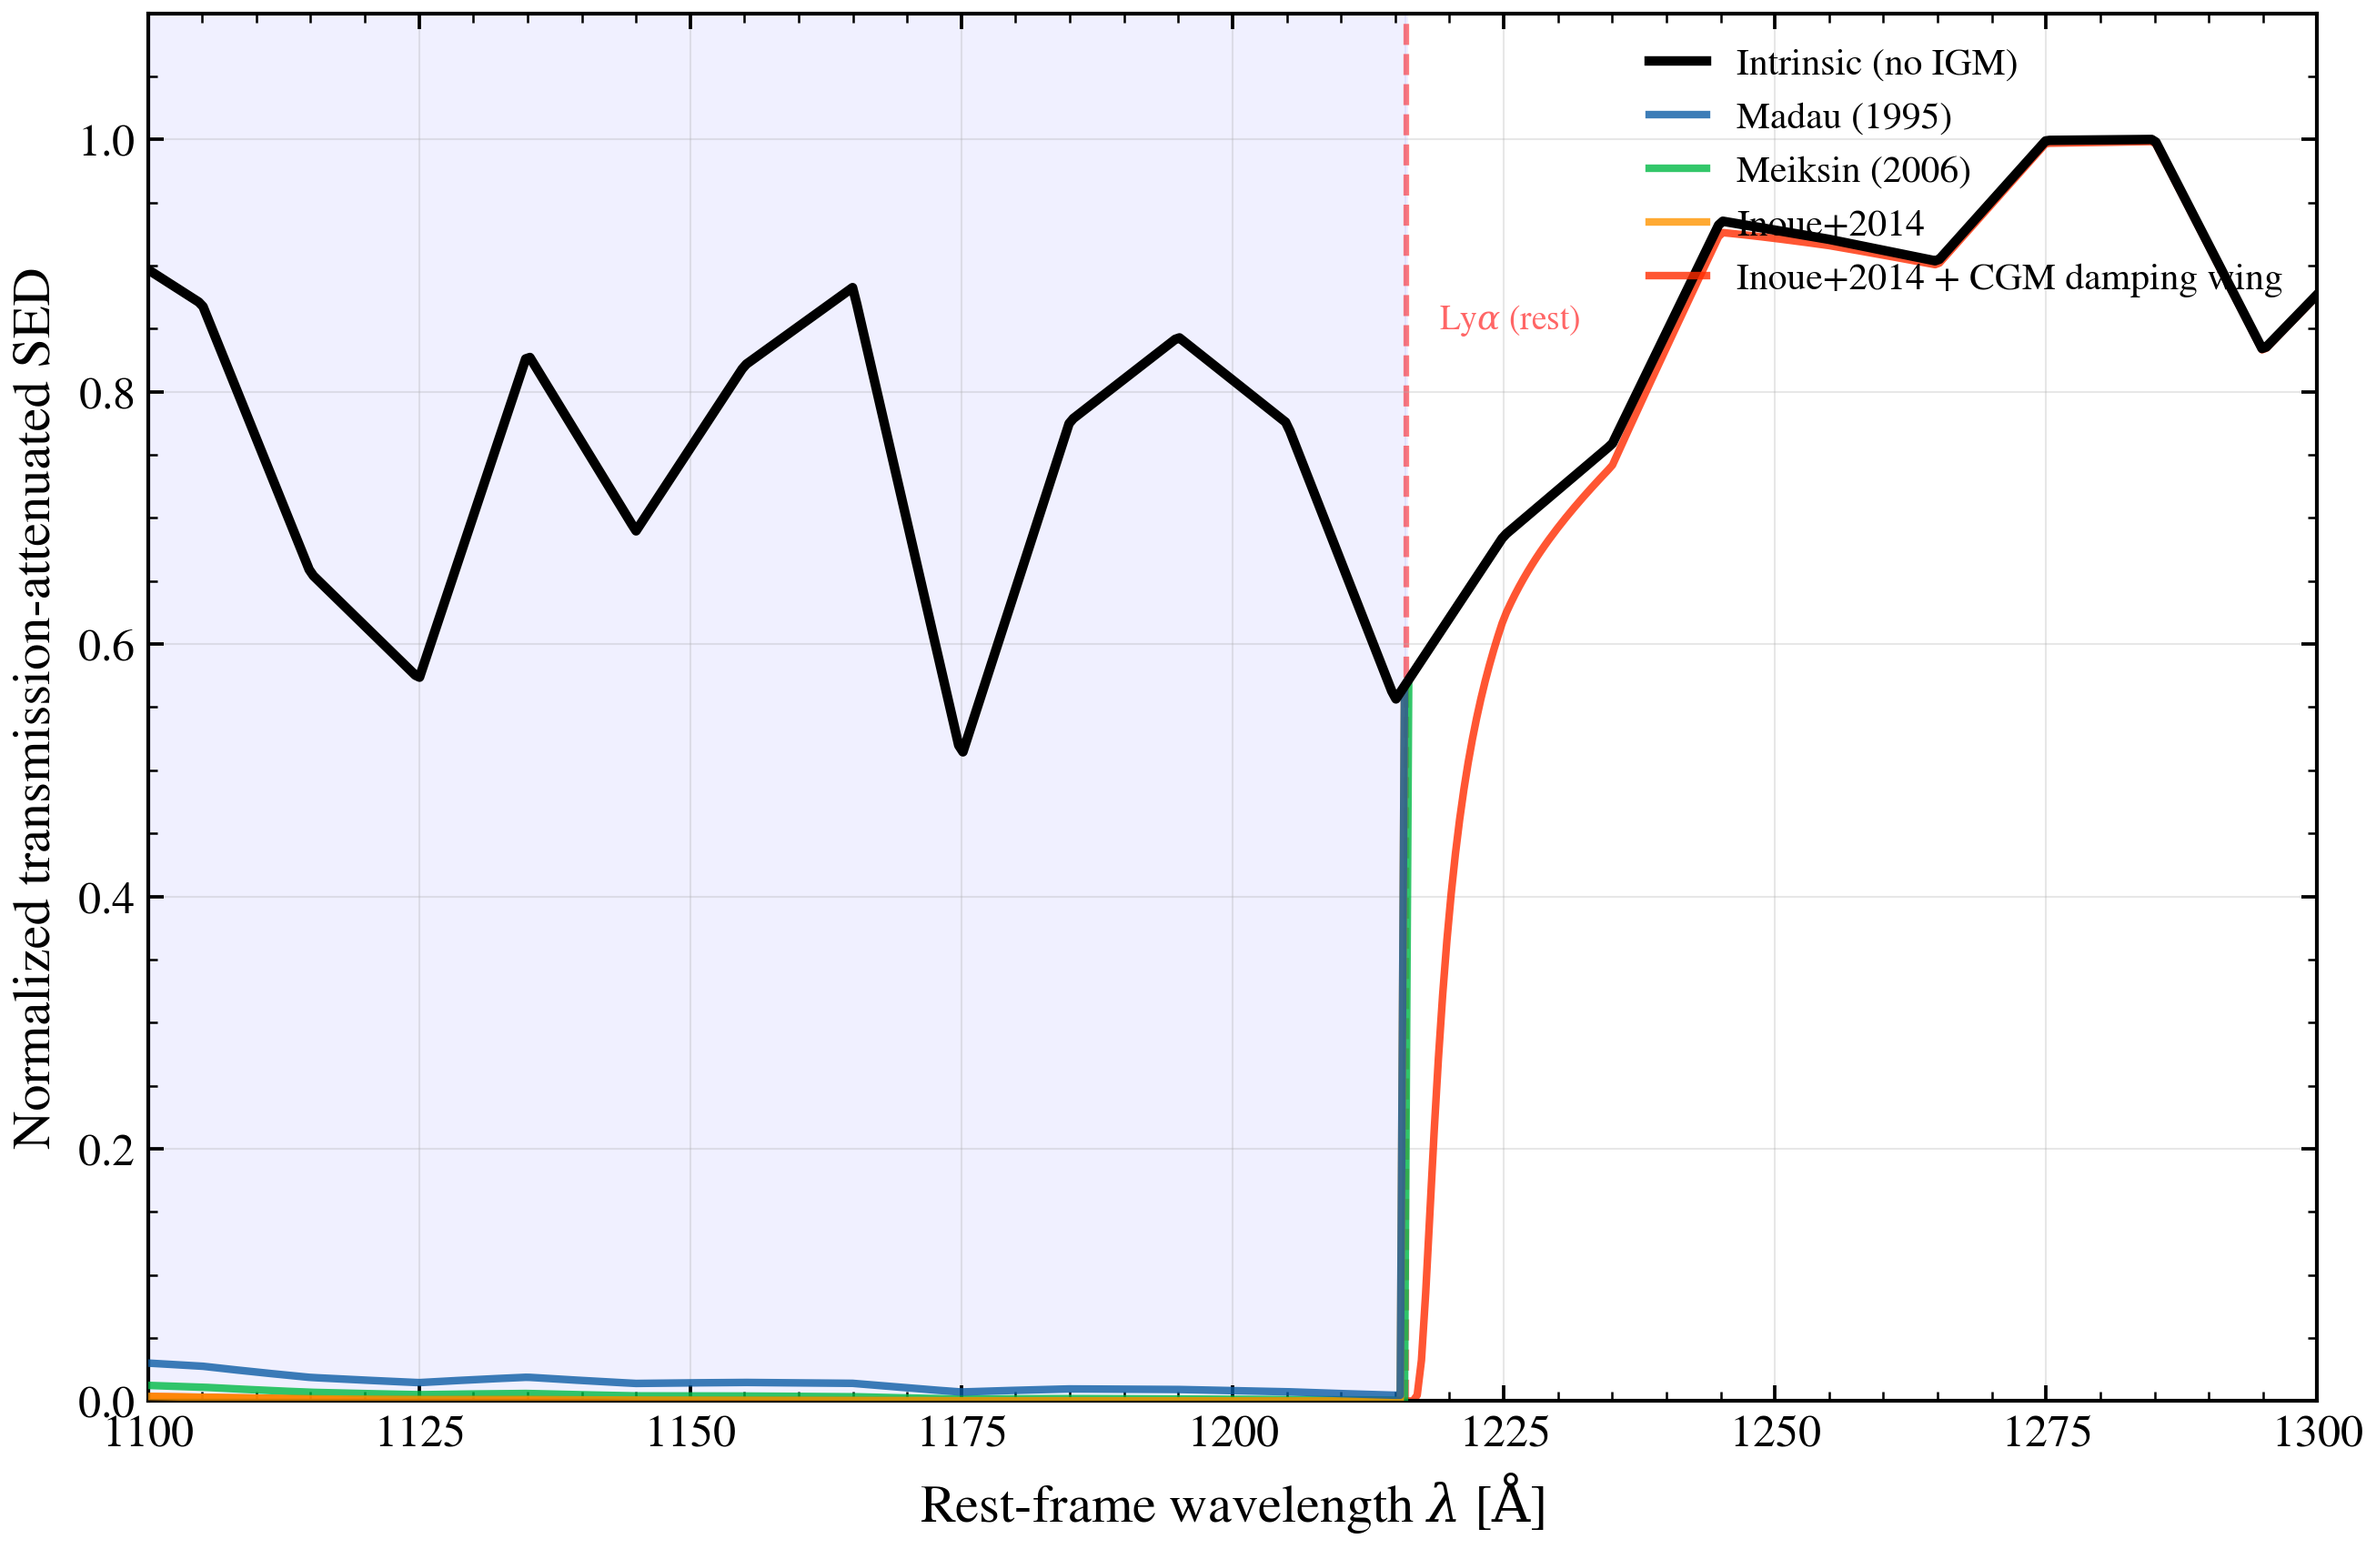
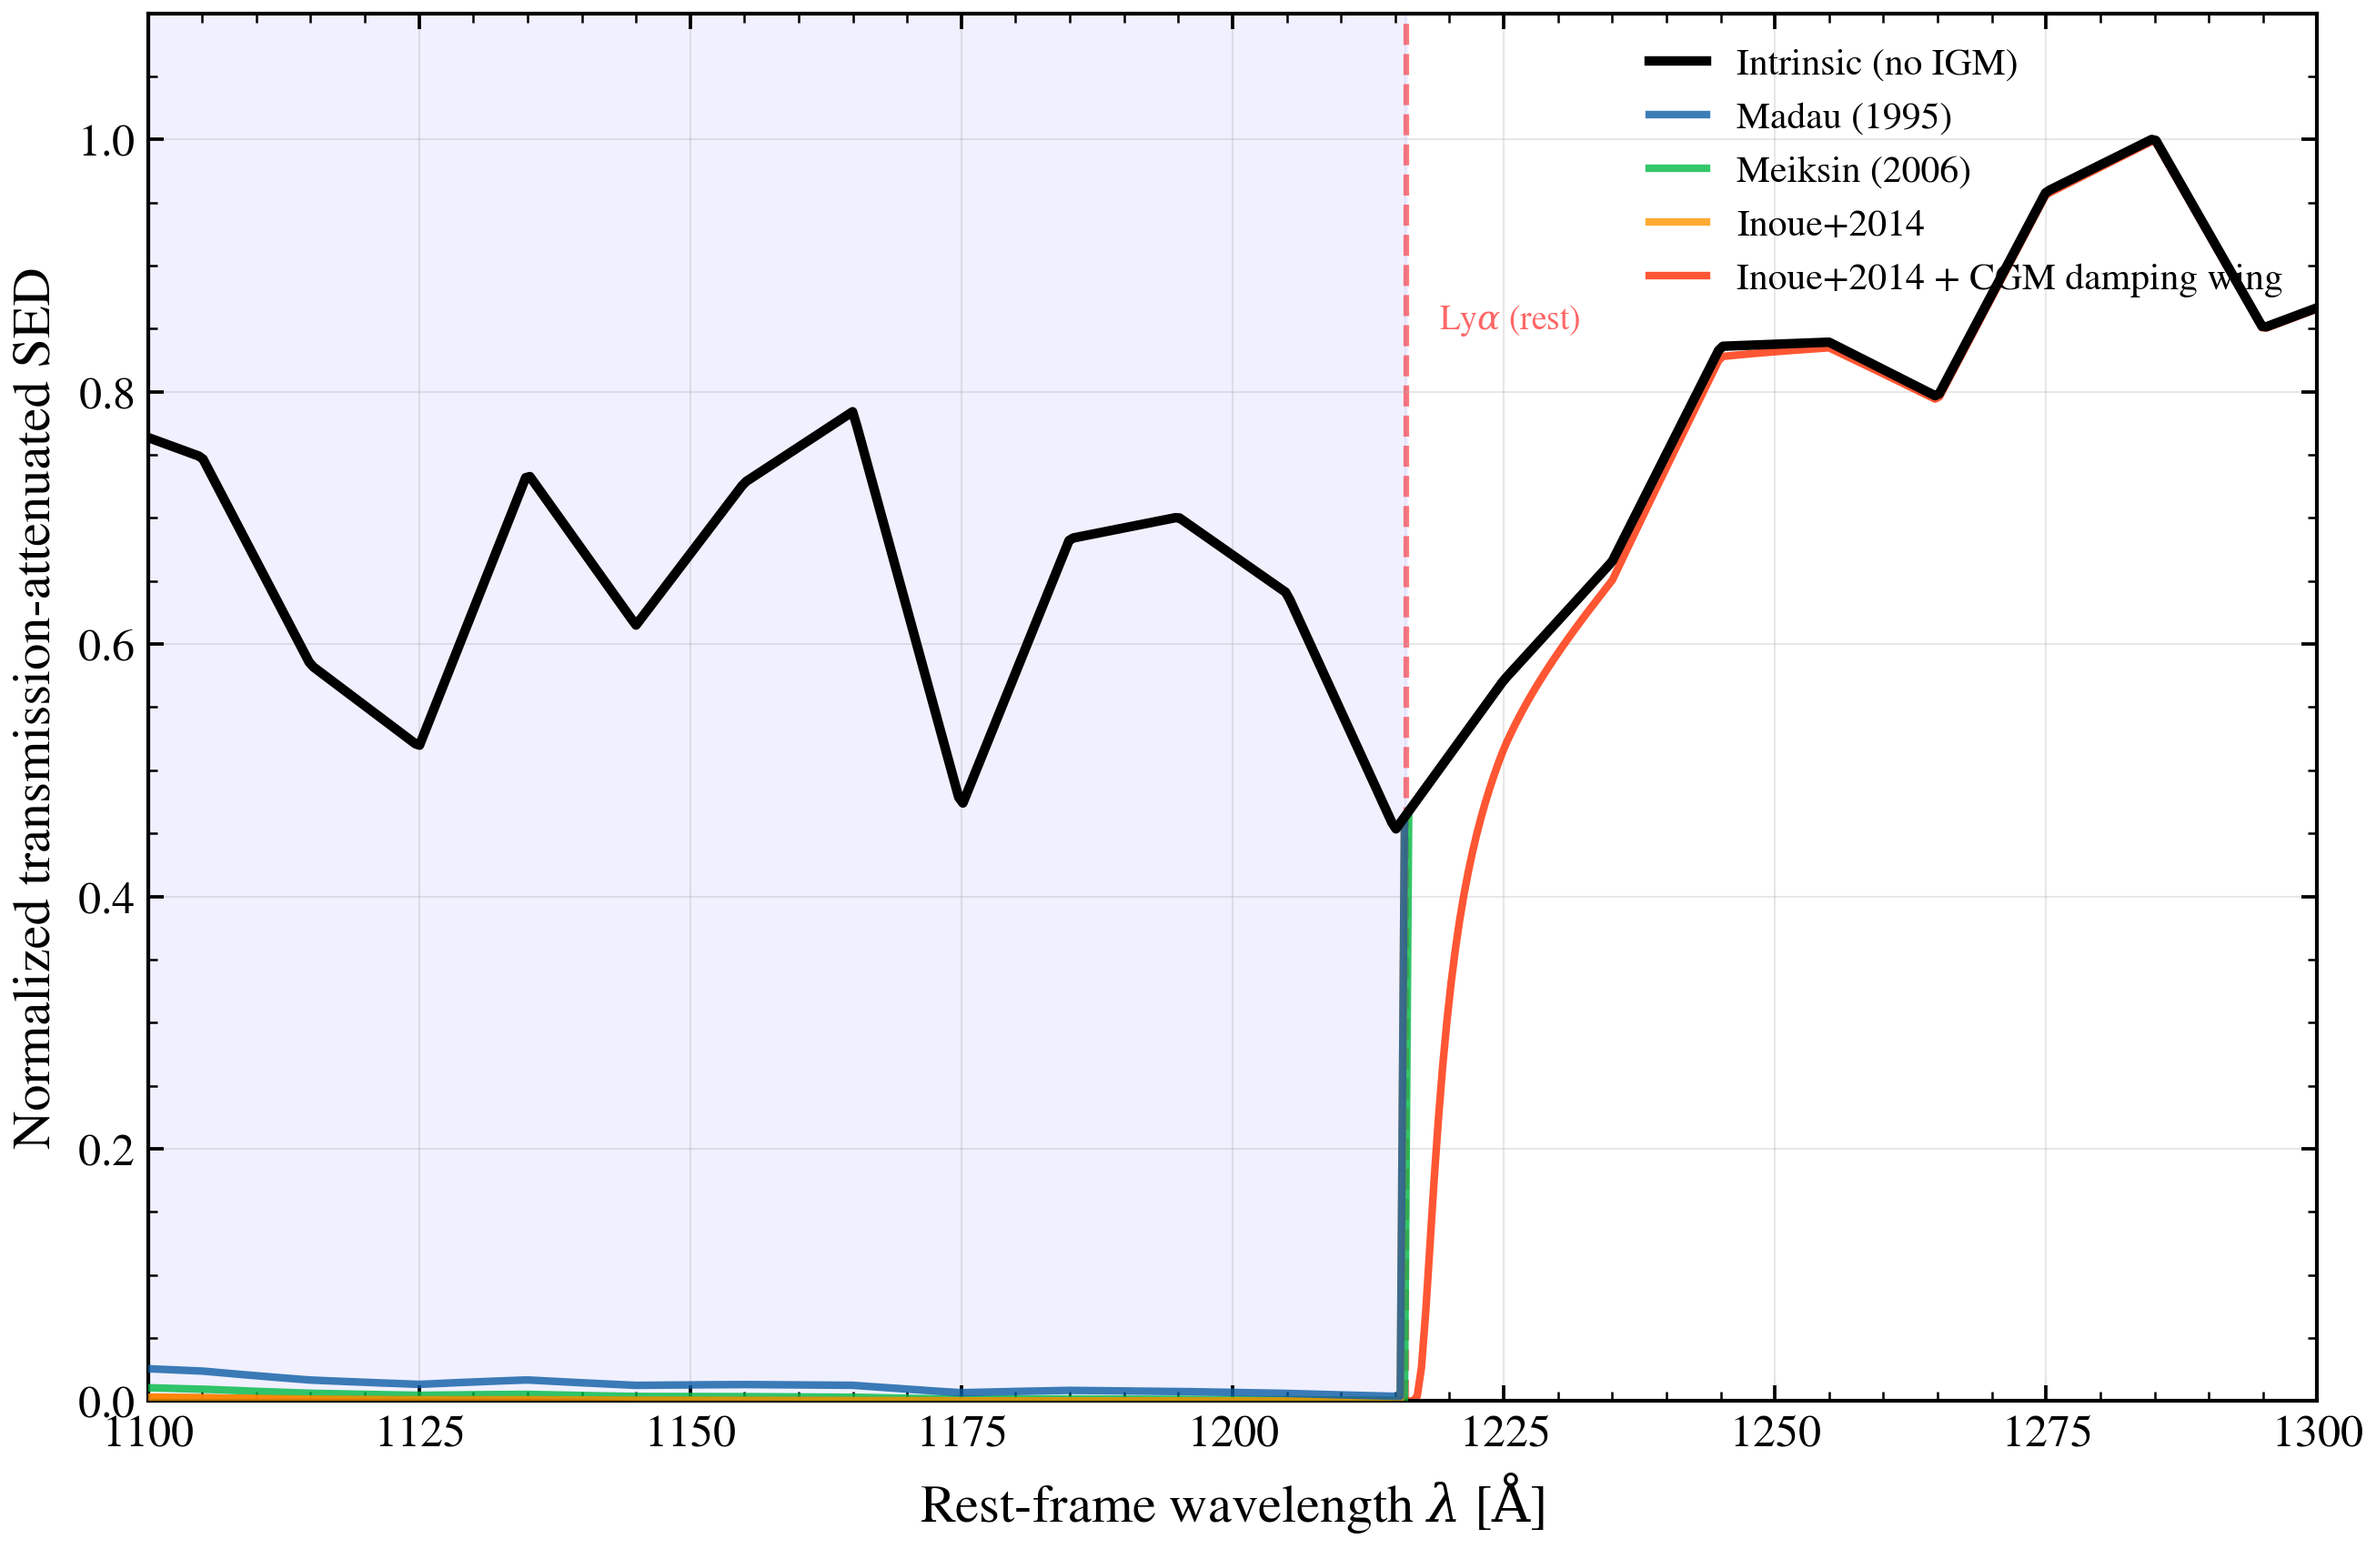
fix(api,examples): constants live in tengri.units per the API contract; the z=7 IGM demo keeps its stars inside cosmic time
C_AA and LOG10_ZSUN move from tengri top level into tengri.units, matching
the contract's subpackage-for-constants convention; igm_transmission_meiksin06
is registered in ALLOWED_TOP_LEVEL with a docs/dev/api_migration_v0.x.md
entry. Four example imports updated to the new path.

The z=7 IGM comparison built its galaxy with a default SFH age that exceeded
cosmic time at that redshift, tripping SFHBeforeBigBangWarning and capturing
an absolute machine path into the committed render. Bounded to 0.5 Gyr.

Five touched examples regenerated by real execution.

diff --git a/tests/contract/test_public_api_surface.py b/tests/contract/test_public_api_surface.py
@@ -114,6 +114,7 @@ ALLOWED_TOP_LEVEL: frozenset[str] = frozenset(
         # build for a curve-only check is unnecessary friction.
         "igm_transmission",
         "igm_transmission_madau",
+        "igm_transmission_meiksin06",
         "velocity_broaden",
         "apply_lsf",
         # ── GP-noise kernels + spectral indices (closes #511) ───────
@@ -360,15 +361,17 @@ def test_new_subpackages_resolve() -> None:
 
     import tengri.analysis.plotting as _plotting
     import tengri.cosmology
+    import tengri.parameters.translate as _parameters_translate
     import tengri.plot
     import tengri.units
     import tengri.utils.conversions as _conversions
     import tengri.utils.cosmology as _cosmology
     import tengri.utils.magnitudes as _magnitudes
+    import tengri.utils.physics_constants as _physics_constants
 
     shim_sources = [
         (tengri.cosmology, (_cosmology,)),
-        (tengri.units, (_conversions, _magnitudes)),
+        (tengri.units, (_conversions, _magnitudes, _physics_constants, _parameters_translate)),
         (tengri.plot, (_plotting,)),
     ]
     for shim, sources in shim_sources:

diff --git a/src/tengri/__init__.py b/src/tengri/__init__.py
@@ -438,11 +438,9 @@ from tengri.parameters.registry import (
     recipe_parameters,
 )
 from tengri.parameters.sentinels import FIXED, FREE
-from tengri.parameters.translate import LOG10_ZSUN
 from tengri.protocols import ComponentIOError, DerivedKey, DerivedState, ForwardState
 from tengri.utils import jit_logging
 from tengri.utils.batching import vmap_chunked
-from tengri.utils.physics_constants import C_AA
 
 agn = _components.agn
 dust = _components.dust
@@ -661,9 +659,6 @@ __all__ = [  # noqa: RUF022
     "igm_transmission",
     "igm_transmission_madau",
     "igm_transmission_meiksin06",
-    # Physical constants
-    "C_AA",
-    "LOG10_ZSUN",
     # Spectral indices
     "measure_index_jax",
     "STANDARD_INDICES",

diff --git a/src/tengri/units/__init__.py b/src/tengri/units/__init__.py
@@ -106,3 +106,10 @@ __all__ = [
     "vacuum_to_air",
     "vega_to_ab",
 ]
+
+# Physical constants re-exported from their canonical sources.
+# These are imported at the end to avoid circular import issues.
+from tengri.parameters.translate import LOG10_ZSUN
+from tengri.utils.physics_constants import C_AA
+
+__all__ += ["C_AA", "LOG10_ZSUN"]

diff --git a/docs/auto_examples/usecases/plot_usecase_simulation_seds.py b/docs/auto_examples/usecases/plot_usecase_simulation_seds.py
@@ -21,8 +21,8 @@ import matplotlib.pyplot as plt
 import numpy as np
 
 import tengri
-from tengri import LOG10_ZSUN
 from tengri.plot import setup_style
+from tengri.units import LOG10_ZSUN
 
 setup_style()
 warnings.filterwarnings("ignore", message=".*BakedInBackend.*")

diff --git a/examples/usecases/plot_usecase_simulation_seds.py b/examples/usecases/plot_usecase_simulation_seds.py
@@ -21,8 +21,8 @@ import matplotlib.pyplot as plt
 import numpy as np
 
 import tengri
-from tengri import LOG10_ZSUN
 from tengri.plot import setup_style
+from tengri.units import LOG10_ZSUN
 
 setup_style()
 warnings.filterwarnings("ignore", message=".*BakedInBackend.*")

diff --git a/docs/auto_examples/agn/plot_skirtor_xcigale_sweep.py b/docs/auto_examples/agn/plot_skirtor_xcigale_sweep.py
@@ -46,8 +46,8 @@ import matplotlib.pyplot as plt
 import numpy as np
 
 import tengri
-from tengri import C_AA
 from tengri.plot import setup_style
+from tengri.units import C_AA
 
 setup_style()
 warnings.filterwarnings("ignore", message=".*BakedInBackend.*")

diff --git a/docs/auto_examples/radio/plot_radio_model_family_compare.py b/docs/auto_examples/radio/plot_radio_model_family_compare.py
@@ -35,8 +35,8 @@ import matplotlib.pyplot as plt
 import numpy as np
 
 import tengri
-from tengri import C_AA
 from tengri.plot import setup_style
+from tengri.units import C_AA
 
 setup_style()
 warnings.filterwarnings("ignore", message=".*BakedInBackend.*")

diff --git a/docs/auto_examples/xray/plot_xray_model_family_compare.py b/docs/auto_examples/xray/plot_xray_model_family_compare.py
@@ -39,8 +39,8 @@ import matplotlib.pyplot as plt
 import numpy as np
 
 import tengri
-from tengri import C_AA
 from tengri.plot import setup_style
+from tengri.units import C_AA
 
 setup_style()
 warnings.filterwarnings("ignore", message=".*BakedInBackend.*")

diff --git a/examples/agn/plot_skirtor_xcigale_sweep.py b/examples/agn/plot_skirtor_xcigale_sweep.py
@@ -46,8 +46,8 @@ import matplotlib.pyplot as plt
 import numpy as np
 
 import tengri
-from tengri import C_AA
 from tengri.plot import setup_style
+from tengri.units import C_AA
 
 setup_style()
 warnings.filterwarnings("ignore", message=".*BakedInBackend.*")

diff --git a/examples/radio/plot_radio_model_family_compare.py b/examples/radio/plot_radio_model_family_compare.py
@@ -35,8 +35,8 @@ import matplotlib.pyplot as plt
 import numpy as np
 
 import tengri
-from tengri import C_AA
 from tengri.plot import setup_style
+from tengri.units import C_AA
 
 setup_style()
 warnings.filterwarnings("ignore", message=".*BakedInBackend.*")

diff --git a/examples/xray/plot_xray_model_family_compare.py b/examples/xray/plot_xray_model_family_compare.py
@@ -39,8 +39,8 @@ import matplotlib.pyplot as plt
 import numpy as np
 
 import tengri
-from tengri import C_AA
 from tengri.plot import setup_style
+from tengri.units import C_AA
 
 setup_style()
 warnings.filterwarnings("ignore", message=".*BakedInBackend.*")

diff --git a/docs/auto_examples/igm/plot_igm_models_comparison.py b/docs/auto_examples/igm/plot_igm_models_comparison.py
@@ -66,6 +66,7 @@ SFH = {
     "type": "dpl",
     "all_params": tengri.FIXED,
     "tau_gyr": 0.1,
+    "age_gyr": 0.5,  # Bound to 0.5 Gyr to fit within cosmic age at z=7 (0.76 Gyr)
     "log_total_mass": 10.0,
     "alpha": 2.5,
     "beta": 1.5,
